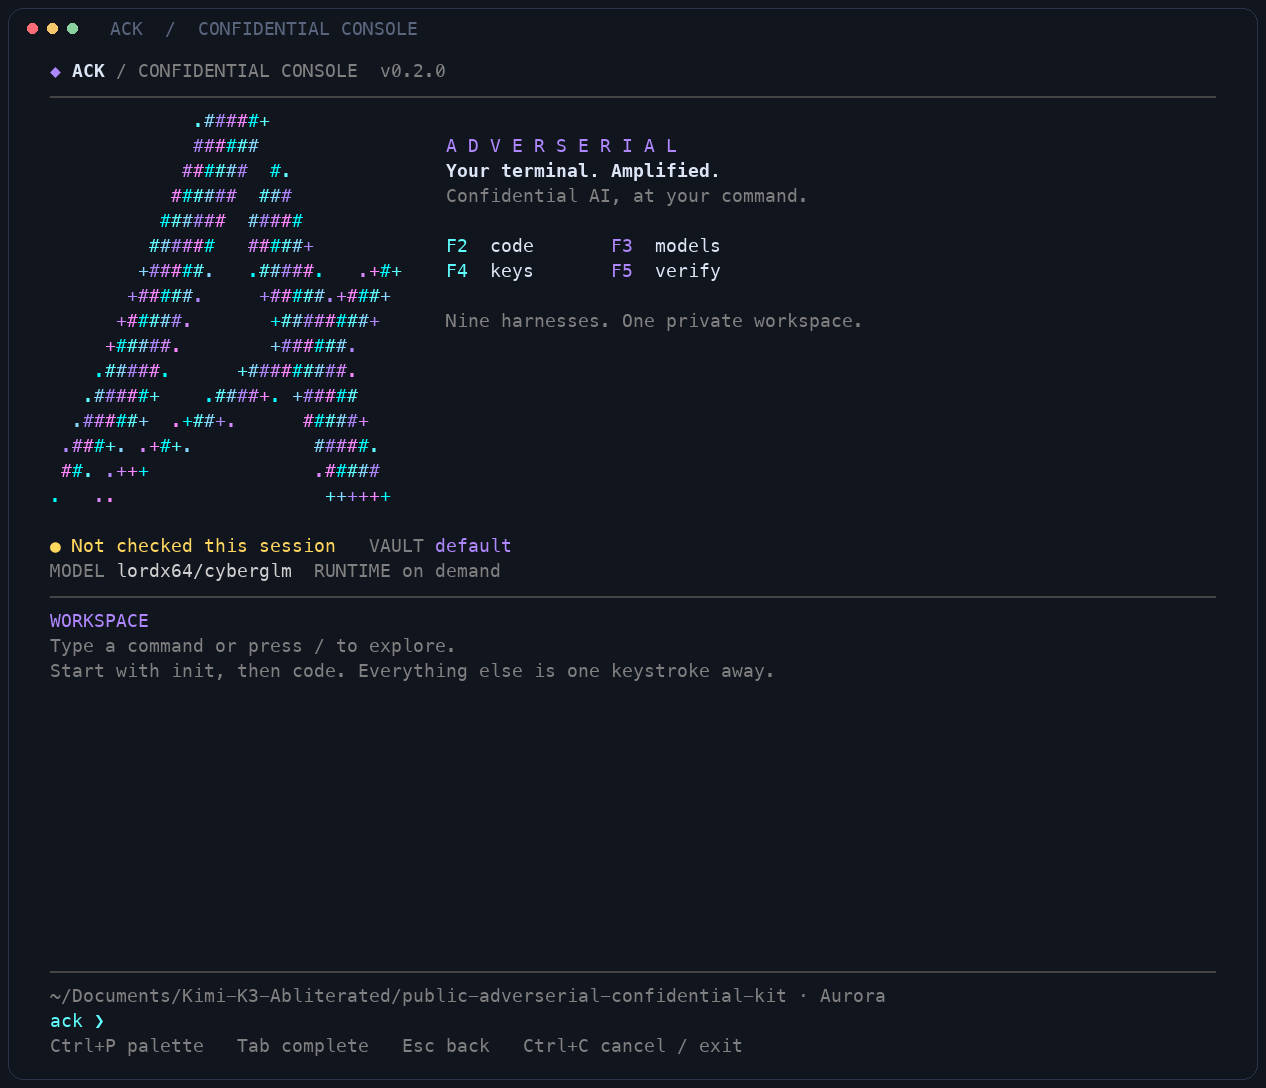
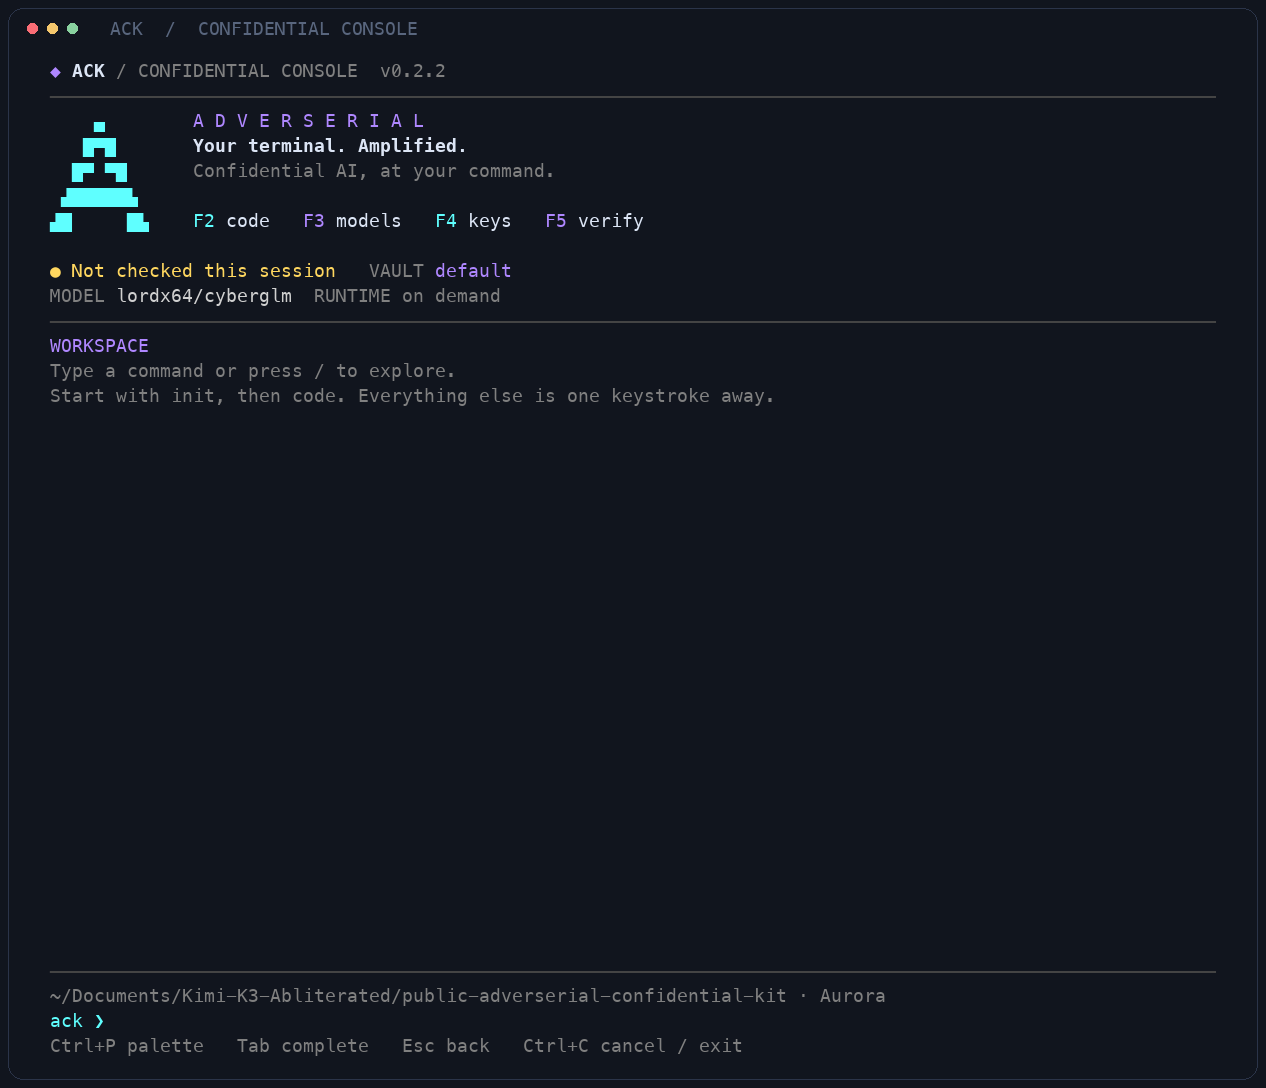
design: replace oversized ACK artwork with compact A mark

diff --git a/README.md b/README.md
@@ -4,7 +4,7 @@
 
 ### Your coding agents. One confidential console.
 
-[![Version](https://img.shields.io/badge/ACK-0.2.1-12b8a6)](package.json)
+[![Version](https://img.shields.io/badge/ACK-0.2.2-12b8a6)](package.json)
 [![Runtime](https://img.shields.io/badge/Node.js-18%2B-43853d)](package.json)
 [![Platform](https://img.shields.io/badge/key_vault-macOS_Keychain-555)](#requirements)
 [![License](https://img.shields.io/badge/license-proprietary_source--available-6845bd)](LICENSE)
@@ -70,7 +70,8 @@ first-run theme or workspace-trust dialog; ACK does not bypass those choices.
 | `doctor` / `status` | Inspect installed tools, runtime files, key pins and local configuration. |
 | `motion off` / `motion on` | Disable or enable the activity animation. |
 
-The original Adverserial ASCII logo appears in color beside the wordmark.
+A compact five-line A appears beside the wordmark in a single accent color.
+Narrow terminals use a three-line version.
 Preferences persist locally. Tab completes commands, Up/Down browse in-memory
 history, Escape returns or cancels, Page Up/Down scroll, and Ctrl+L redraws.
 The console handles terminal resizing and restores itself after a harness exits.

diff --git a/docs/TESTING.md b/docs/TESTING.md
@@ -1,8 +1,12 @@
-# ACK 0.2.1 validation
+# ACK 0.2.x validation
 
 Validation performed on macOS (Apple Silicon), Node.js 26.5.0 and Python 3.14.4,
 on October 17–18, 2026. The live model was `lordx64/cyberglm`, selected from the
 public model registry and checked against the active production policy.
+
+The 0.2.2 visual update replaces the large logo with a five-line mark (three
+lines on narrow terminals). The 33 Node tests and PTY UI checks were rerun
+after this layout change; inference and gateway behavior are unchanged.
 
 ## Live harness matrix
 
